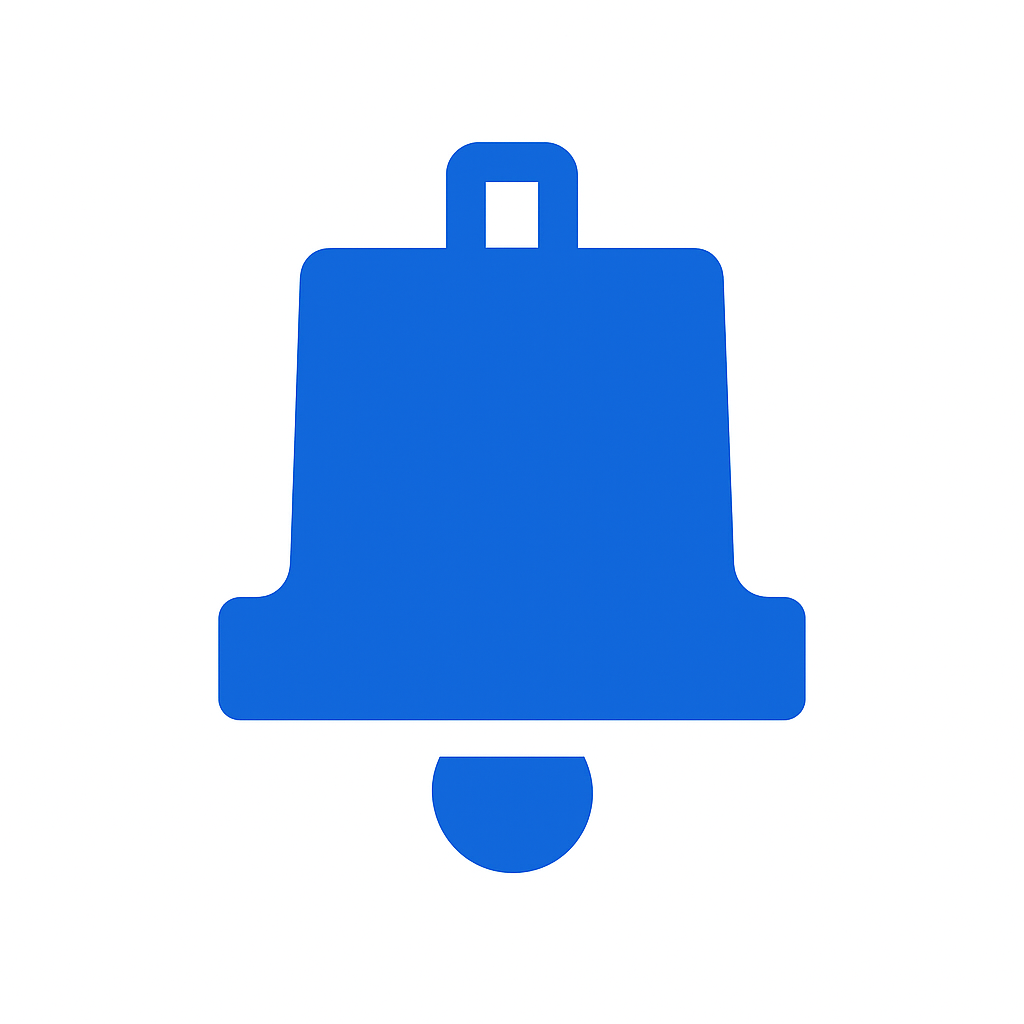
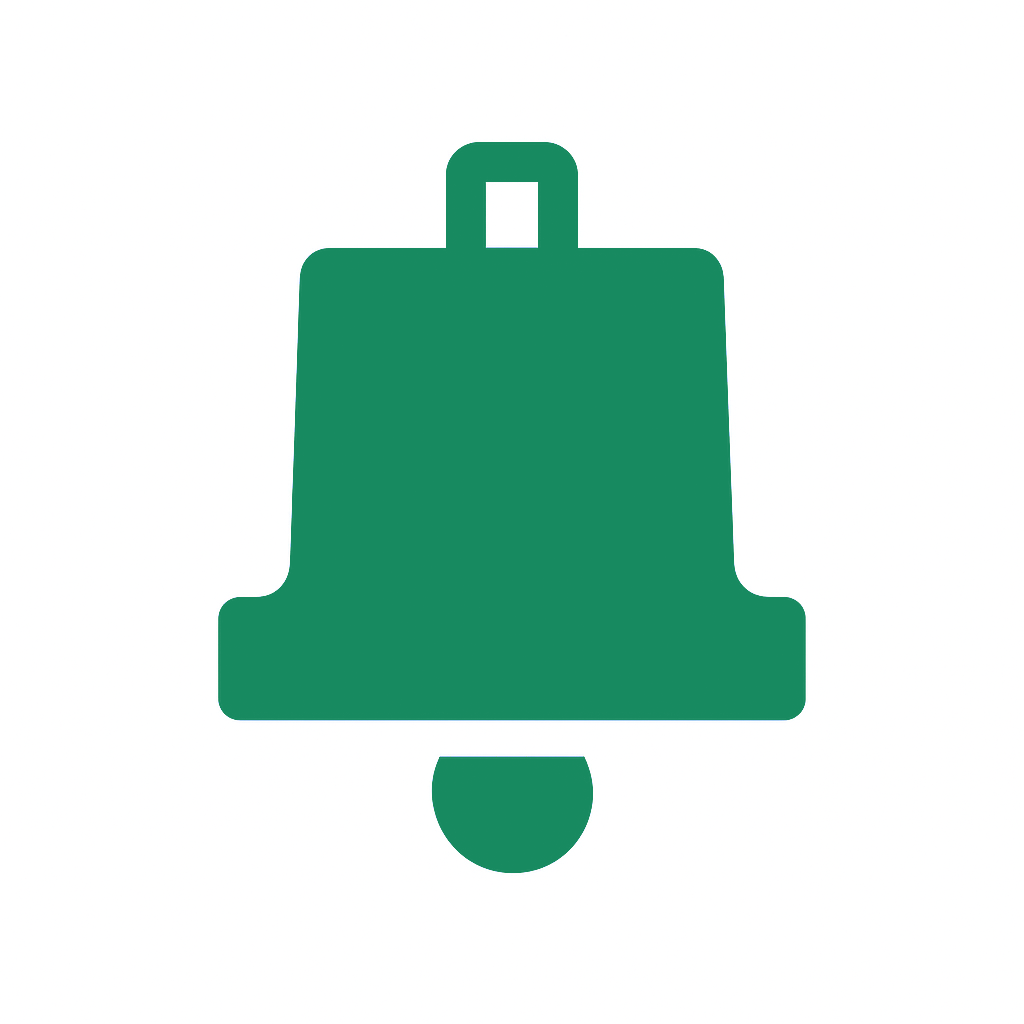
Some visual fixes
Changed logo and profile pictures

Changed region(s): [[0.1875, 0.125, 0.8125, 0.875]]

diff --git a/about.html b/about.html
@@ -20,7 +20,7 @@
 </head>
 <body class="about-page">
     <nav class="sidebar">
-        <a class="logo" href="index.html"><img src="images/piezimes.svg" alt=""></a>
+        <a class="logo" href="index.html"><img src="images/site/logo.png" alt=""></a>
         <a href="game.html"><img src="icons/chat.svg" alt="">Ziņas</a>
         <a href="map.html"><img src="icons/map.svg" alt="">Karte</a>
         <a href="about.html"><img src="icons/about.svg" alt="">Par spēli</a>

diff --git a/map.html b/map.html
@@ -22,7 +22,7 @@
 </head>
 <body>
 <nav class="sidebar">
-  <a class="logo" href="index.html"><img src="images/piezimes.svg" alt=""></a>
+  <a class="logo" href="index.html"><img src="images/site/logo.png" alt=""></a>
   <a href="game.html"><img src="icons/chat.svg" alt="">Ziņas</a>
   <a href="map.html"><img src="icons/map.svg" alt="">Karte</a>
   <a href="about.html"><img src="icons/about.svg" alt="">Par spēli</a>
